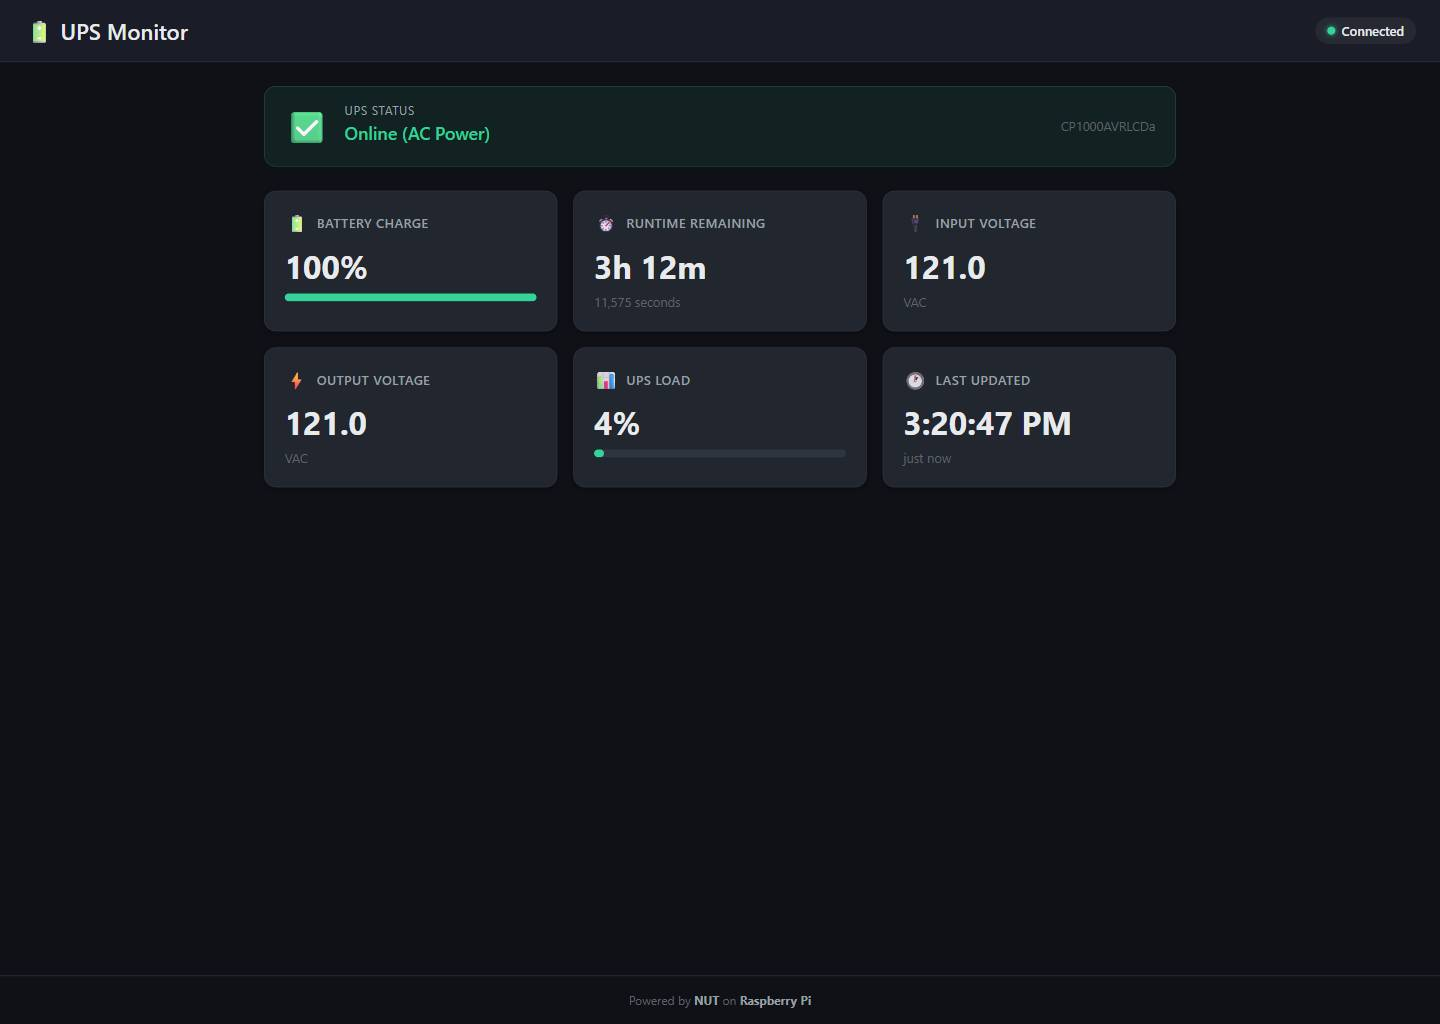
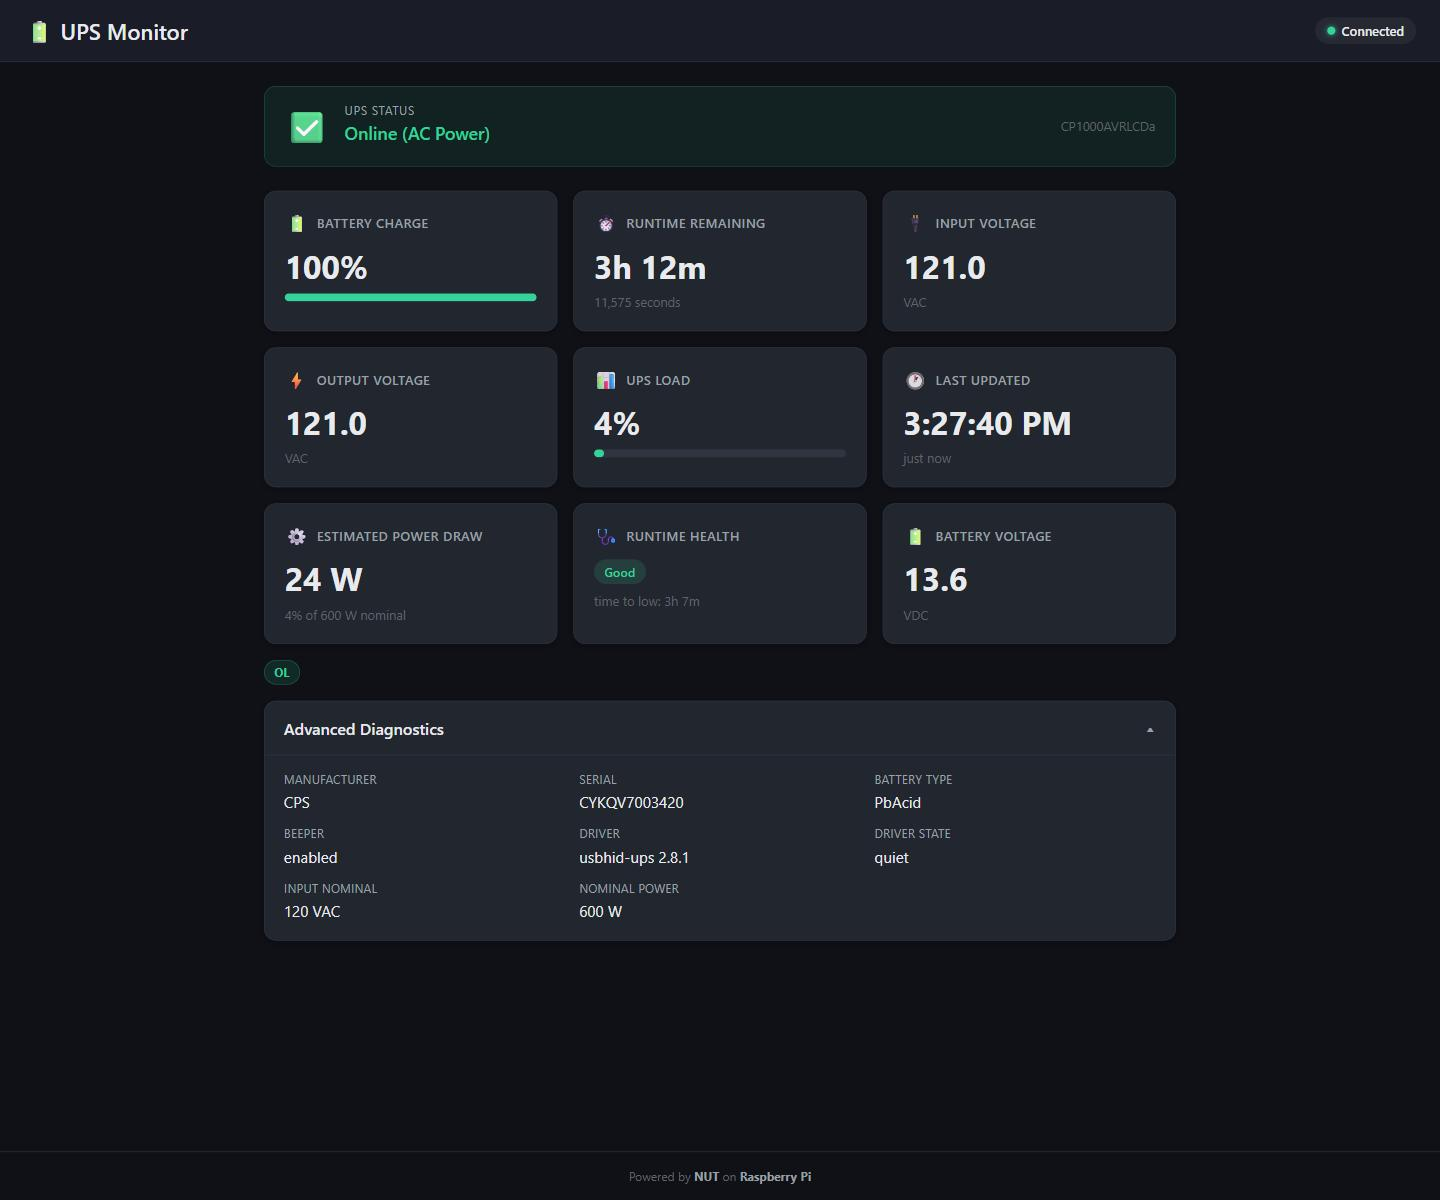
Enhance dashboard insights and refresh README screenshots

diff --git a/app/static/script.js b/app/static/script.js
@@ -27,6 +27,20 @@
     loadBar: document.getElementById("load-bar"),
     lastUpdatedValue: document.getElementById("last-updated-value"),
     lastUpdatedAgo: document.getElementById("last-updated-ago"),
+    estimatedPowerValue: document.getElementById("estimated-power-value"),
+    estimatedPowerSub: document.getElementById("estimated-power-sub"),
+    runtimeHealthBadge: document.getElementById("runtime-health-badge"),
+    timeToLowValue: document.getElementById("time-to-low-value"),
+    batteryVoltageValue: document.getElementById("battery-voltage-value"),
+    statusFlags: document.getElementById("status-flags"),
+    diagMfr: document.getElementById("diag-mfr"),
+    diagSerial: document.getElementById("diag-serial"),
+    diagBatteryType: document.getElementById("diag-battery-type"),
+    diagBeeper: document.getElementById("diag-beeper"),
+    diagDriver: document.getElementById("diag-driver"),
+    diagDriverState: document.getElementById("diag-driver-state"),
+    diagInputNominal: document.getElementById("diag-input-nominal"),
+    diagPowerNominal: document.getElementById("diag-power-nominal"),
   };
 
   let lastFetchTime = null;
@@ -73,6 +87,51 @@
     if (percent >= 90) return "critical";
     if (percent >= 70) return "warn";
     return "";
+  }
+
+  function formatDiffTime(seconds) {
+    var s = parseInt(seconds, 10);
+    if (isNaN(s)) return "—";
+    if (s <= 0) return "now";
+    var h = Math.floor(s / 3600);
+    var m = Math.floor((s % 3600) / 60);
+    if (h > 0) return h + "h " + m + "m";
+    if (m > 0) return m + "m";
+    return s + "s";
+  }
+
+  function setHealthBadge(level, label) {
+    dom.runtimeHealthBadge.className = "health-badge health-" + level;
+    dom.runtimeHealthBadge.textContent = label;
+  }
+
+  function renderStatusFlags(rawStatus) {
+    dom.statusFlags.innerHTML = "";
+
+    if (!rawStatus) {
+      var unknown = document.createElement("span");
+      unknown.className = "flag-chip flag-unknown";
+      unknown.textContent = "UNKNOWN";
+      dom.statusFlags.appendChild(unknown);
+      return;
+    }
+
+    rawStatus
+      .trim()
+      .toUpperCase()
+      .split(/\s+/)
+      .forEach(function (flag) {
+        var chip = document.createElement("span");
+        chip.className = "flag-chip";
+
+        if (flag === "OL") chip.className += " flag-ok";
+        else if (flag === "OB" || flag === "DISCHRG") chip.className += " flag-warn";
+        else if (flag === "LB") chip.className += " flag-critical";
+        else chip.className += " flag-unknown";
+
+        chip.textContent = flag;
+        dom.statusFlags.appendChild(chip);
+      });
   }
 
   // ── Loading state ────────────────────────────────────────────
@@ -159,6 +218,59 @@
       dom.loadBar.className = "load-bar-fill " + loadBarLevel(load);
     }
 
+    // Computed power estimate
+    var nominalPower = parseFloat(data["ups.realpower.nominal"]);
+    if (!isNaN(load) && !isNaN(nominalPower)) {
+      var watts = Math.round((load / 100) * nominalPower);
+      dom.estimatedPowerValue.textContent = watts + " W";
+      dom.estimatedPowerSub.textContent = load.toFixed(0) + "% of " + nominalPower.toFixed(0) + " W nominal";
+    } else {
+      dom.estimatedPowerValue.textContent = "—";
+      dom.estimatedPowerSub.textContent = "requires load + nominal power";
+    }
+
+    // Runtime health + time to low threshold
+    var runtimeInt = parseInt(data["battery.runtime"], 10);
+    var runtimeLowInt = parseInt(data["battery.runtime.low"], 10);
+    var statusRaw = data["ups.status"] || "";
+
+    if (!isNaN(runtimeInt) && !isNaN(runtimeLowInt)) {
+      var secondsToLow = runtimeInt - runtimeLowInt;
+      dom.timeToLowValue.textContent = "time to low: " + formatDiffTime(secondsToLow);
+
+      if (secondsToLow <= 0 || /LB/.test(statusRaw)) {
+        setHealthBadge("critical", "Critical");
+      } else if (secondsToLow <= 600 || /OB/.test(statusRaw)) {
+        setHealthBadge("warn", "Caution");
+      } else {
+        setHealthBadge("ok", "Good");
+      }
+    } else {
+      dom.timeToLowValue.textContent = "time to low: —";
+      setHealthBadge("unknown", "Unknown");
+    }
+
+    // Battery voltage
+    var batteryVoltage = parseFloat(data["battery.voltage"]);
+    dom.batteryVoltageValue.textContent = isNaN(batteryVoltage) ? "—" : batteryVoltage.toFixed(1);
+
+    // Status flags
+    renderStatusFlags(statusRaw);
+
+    // Advanced diagnostics
+    dom.diagMfr.textContent = data["device.mfr"] || data["ups.mfr"] || "—";
+    dom.diagSerial.textContent = data["device.serial"] || data["ups.serial"] || "—";
+    dom.diagBatteryType.textContent = data["battery.type"] || "—";
+    dom.diagBeeper.textContent = data["ups.beeper.status"] || "—";
+    dom.diagDriver.textContent = data["driver.name"] && data["driver.version"]
+      ? data["driver.name"] + " " + data["driver.version"]
+      : data["driver.name"] || data["driver.version"] || "—";
+    dom.diagDriverState.textContent = data["driver.state"] || "—";
+    dom.diagInputNominal.textContent = data["input.voltage.nominal"]
+      ? parseFloat(data["input.voltage.nominal"]).toFixed(0) + " VAC"
+      : "—";
+    dom.diagPowerNominal.textContent = !isNaN(nominalPower) ? nominalPower.toFixed(0) + " W" : "—";
+
     // Timestamp
     if (data.timestamp) {
       var ts = new Date(data.timestamp);
@@ -187,6 +299,26 @@
     dom.inputVoltage.textContent = "—";
     dom.outputVoltage.textContent = "—";
     dom.loadValue.textContent = "—";
+    dom.estimatedPowerValue.textContent = "—";
+    dom.estimatedPowerSub.textContent = "waiting for healthy UPS telemetry";
+    dom.timeToLowValue.textContent = "time to low: —";
+    dom.batteryVoltageValue.textContent = "—";
+    setHealthBadge("critical", "Unavailable");
+
+    dom.statusFlags.innerHTML = "";
+    var errorChip = document.createElement("span");
+    errorChip.className = "flag-chip flag-critical";
+    errorChip.textContent = "NO DATA";
+    dom.statusFlags.appendChild(errorChip);
+
+    dom.diagMfr.textContent = "—";
+    dom.diagSerial.textContent = "—";
+    dom.diagBatteryType.textContent = "—";
+    dom.diagBeeper.textContent = "—";
+    dom.diagDriver.textContent = "—";
+    dom.diagDriverState.textContent = "—";
+    dom.diagInputNominal.textContent = "—";
+    dom.diagPowerNominal.textContent = "—";
 
     dom.batteryBar.style.width = "0%";
     dom.batteryBar.setAttribute("aria-valuenow", "0");

diff --git a/app/static/style.css b/app/static/style.css
@@ -189,6 +189,13 @@ main {
   gap: 1rem;
 }
 
+.insights-grid {
+  display: grid;
+  grid-template-columns: repeat(auto-fill, minmax(260px, 1fr));
+  gap: 1rem;
+  margin-top: 1rem;
+}
+
 /* ===== Metric Card ===== */
 .metric-card {
   background: var(--bg-card);
@@ -235,6 +242,136 @@ main {
 .metric-sub {
   font-size: 0.8rem;
   color: var(--text-muted);
+}
+
+.health-row {
+  margin-bottom: 0.5rem;
+}
+
+.health-badge {
+  display: inline-flex;
+  align-items: center;
+  gap: 0.35rem;
+  border-radius: 999px;
+  padding: 0.25rem 0.65rem;
+  font-size: 0.78rem;
+  font-weight: 600;
+}
+
+.health-badge.health-ok {
+  background: rgba(52, 211, 153, 0.15);
+  color: var(--status-ok);
+}
+
+.health-badge.health-warn {
+  background: rgba(251, 191, 36, 0.15);
+  color: var(--status-warn);
+}
+
+.health-badge.health-critical {
+  background: rgba(248, 113, 113, 0.15);
+  color: var(--status-critical);
+}
+
+.health-badge.health-unknown {
+  background: rgba(154, 160, 166, 0.15);
+  color: var(--text-secondary);
+}
+
+.status-flags {
+  display: flex;
+  flex-wrap: wrap;
+  gap: 0.45rem;
+  margin-top: 1rem;
+}
+
+.flag-chip {
+  border-radius: 999px;
+  font-size: 0.72rem;
+  font-weight: 700;
+  letter-spacing: 0.03em;
+  padding: 0.25rem 0.6rem;
+  border: 1px solid transparent;
+}
+
+.flag-chip.flag-ok {
+  background: rgba(52, 211, 153, 0.12);
+  border-color: rgba(52, 211, 153, 0.3);
+  color: var(--status-ok);
+}
+
+.flag-chip.flag-warn {
+  background: rgba(251, 191, 36, 0.12);
+  border-color: rgba(251, 191, 36, 0.3);
+  color: var(--status-warn);
+}
+
+.flag-chip.flag-critical {
+  background: rgba(248, 113, 113, 0.12);
+  border-color: rgba(248, 113, 113, 0.3);
+  color: var(--status-critical);
+}
+
+.flag-chip.flag-unknown {
+  background: rgba(154, 160, 166, 0.12);
+  border-color: rgba(154, 160, 166, 0.3);
+  color: var(--text-secondary);
+}
+
+.advanced-panel {
+  margin-top: 1rem;
+  background: var(--bg-card);
+  border: 1px solid var(--border-color);
+  border-radius: var(--card-radius);
+  box-shadow: var(--card-shadow);
+}
+
+.advanced-panel summary {
+  cursor: pointer;
+  font-weight: 600;
+  padding: 1rem 1.2rem;
+  list-style: none;
+}
+
+.advanced-panel summary::-webkit-details-marker {
+  display: none;
+}
+
+.advanced-panel summary::after {
+  content: "▾";
+  float: right;
+  color: var(--text-secondary);
+}
+
+.advanced-panel[open] summary::after {
+  content: "▴";
+}
+
+.advanced-grid {
+  border-top: 1px solid var(--border-color);
+  display: grid;
+  grid-template-columns: repeat(auto-fill, minmax(220px, 1fr));
+  gap: 0.85rem;
+  padding: 1rem 1.2rem 1.2rem;
+}
+
+.kv-item {
+  display: flex;
+  flex-direction: column;
+  gap: 0.3rem;
+}
+
+.kv-key {
+  font-size: 0.72rem;
+  letter-spacing: 0.04em;
+  text-transform: uppercase;
+  color: var(--text-secondary);
+}
+
+.kv-value {
+  font-size: 0.95rem;
+  color: var(--text-primary);
+  font-variant-numeric: tabular-nums;
 }
 
 /* ===== Battery Bar ===== */

diff --git a/app/static/index.html b/app/static/index.html
@@ -99,6 +99,60 @@
       </article>
 
     </section>
+
+    <!-- Computed Insights -->
+    <section class="insights-grid" aria-label="Computed Insights">
+      <article class="metric-card">
+        <div class="metric-header">
+          <span class="metric-icon">⚙</span>
+          <span class="metric-title">Estimated Power Draw</span>
+        </div>
+        <div class="metric-value" id="estimated-power-value">—</div>
+        <div class="metric-sub" id="estimated-power-sub">waiting for data…</div>
+      </article>
+
+      <article class="metric-card">
+        <div class="metric-header">
+          <span class="metric-icon">🩺</span>
+          <span class="metric-title">Runtime Health</span>
+        </div>
+        <div class="health-row">
+          <span id="runtime-health-badge" class="health-badge health-unknown">Unknown</span>
+        </div>
+        <div class="metric-sub" id="time-to-low-value">time to low: —</div>
+      </article>
+
+      <article class="metric-card">
+        <div class="metric-header">
+          <span class="metric-icon">🔋</span>
+          <span class="metric-title">Battery Voltage</span>
+        </div>
+        <div class="metric-value" id="battery-voltage-value">—</div>
+        <div class="metric-sub">VDC</div>
+      </article>
+    </section>
+
+    <!-- Status Flags -->
+    <section class="status-flags" aria-label="Status Flags" id="status-flags"></section>
+
+    <!-- Advanced Diagnostics -->
+    <details class="advanced-panel" id="advanced-panel">
+      <summary>Advanced Diagnostics</summary>
+      <div class="advanced-grid">
+        <div class="kv-item"><span class="kv-key">Manufacturer</span><span class="kv-value" id="diag-mfr">—</span></div>
+        <div class="kv-item"><span class="kv-key">Serial</span><span class="kv-value" id="diag-serial">—</span></div>
+        <div class="kv-item"><span class="kv-key">Battery Type</span><span class="kv-value"
+            id="diag-battery-type">—</span></div>
+        <div class="kv-item"><span class="kv-key">Beeper</span><span class="kv-value" id="diag-beeper">—</span></div>
+        <div class="kv-item"><span class="kv-key">Driver</span><span class="kv-value" id="diag-driver">—</span></div>
+        <div class="kv-item"><span class="kv-key">Driver State</span><span class="kv-value"
+            id="diag-driver-state">—</span></div>
+        <div class="kv-item"><span class="kv-key">Input Nominal</span><span class="kv-value"
+            id="diag-input-nominal">—</span></div>
+        <div class="kv-item"><span class="kv-key">Nominal Power</span><span class="kv-value"
+            id="diag-power-nominal">—</span></div>
+      </div>
+    </details>
   </main>
 
   <footer>
